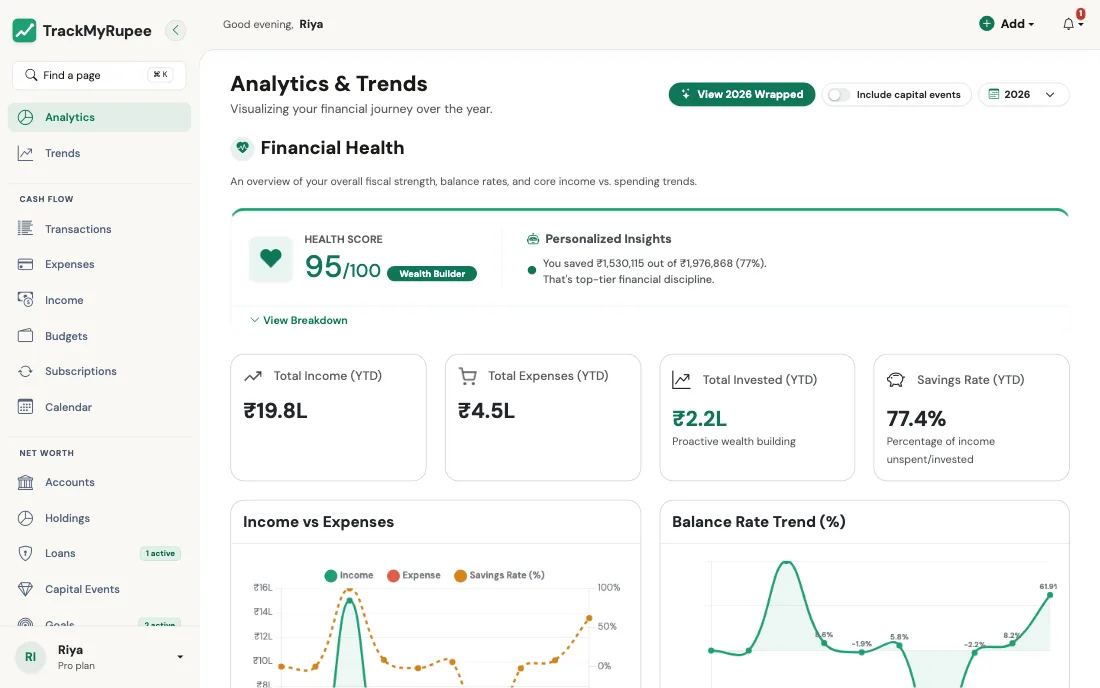
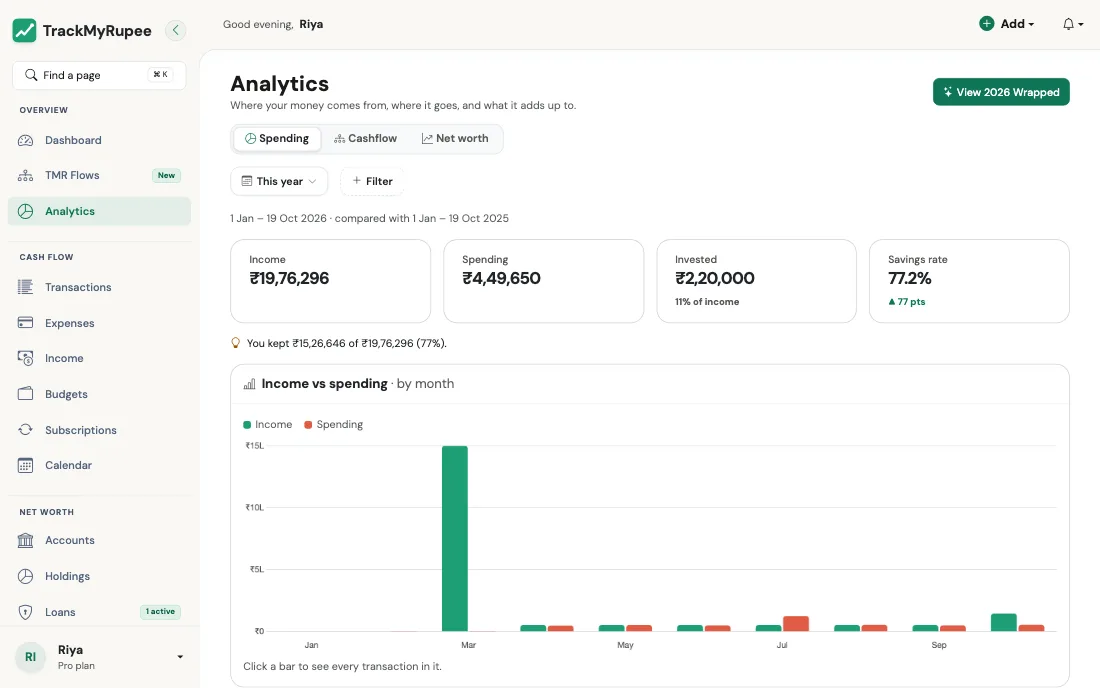
docs: regenerate Analytics guide screenshots; add Cashflow and Net worth shots

diff --git a/guide-src/11-analytics-and-health/index.hi.md b/guide-src/11-analytics-and-health/index.hi.md
@@ -51,6 +51,8 @@ Analytics में वही फ़िल्टर बार है जो Expe
 
 ## 3. Cashflow टैब
 
+![Cashflow](img/cashflow-desktop.webp){ loading=lazy }
+
 - **Where your money went**: एक प्रवाह आरेख। आपकी आय रोज़मर्रा के खर्च, ऋण के ब्याज, निवेश और नकद के रूप में बचाई राशि में बँटती है। रोज़मर्रा का खर्च आपकी सबसे बड़ी श्रेणियों में, और निवेश उन खातों में बँटता है जहाँ पैसा गया। यदि आपने कमाई से अधिक खर्च किया, तो अंतर **Paid from savings** के रूप में दिखता है। किसी ब्लॉक या प्रवाह पर क्लिक करके उसके लेन-देन देखें। नीचे एक छोटी सूची वही आंकड़े देती है, और कुछ सरल वाक्य बताते हैं कि क्या उभरकर आ रहा है।
 - **Health check**: एक स्कोर की जगह चार संख्याएँ, हर एक के साथ बताया गया कि वह क्या मापती है:
 
@@ -66,6 +68,8 @@ Analytics में वही फ़िल्टर बार है जो Expe
 ---
 
 ## 4. Net worth टैब
+
+![Net worth](img/net-worth-desktop.webp){ loading=lazy }
 
 - **Net worth**: अवधि के हर चरण के अंत में आपकी कुल संपत्ति, और अवधि में उसमें कितना बदलाव हुआ। हर बिंदु उस दिन के शेष दिखाता है (बाद के लेन-देन वापस घटाए जाते हैं), जमा पर ब्याज केवल उस दिन तक, होल्डिंग्स और संपत्ति उस दिन या उससे पहले के सबसे ताज़ा मूल्य पर, और ऋण उतने जितना तब बकाया था। किसी बिंदु पर क्लिक करके देखें कि वहाँ तक क्या बदला। चार्ट में अधिकतम 12 बिंदु बराबर दूरी पर दिखते हैं।
 - **What it's made of**: वही बिंदु खाते के प्रकार के अनुसार बँटे: नकद और बैंक, फिक्स्ड इनकम, निवेश, संपत्ति और बीमा, और ऋण व कार्ड पर जो बकाया है (रेखा के नीचे)। **Other** वह पैसा है जो लक्ष्यों के लिए अलग रखा गया है और वे ऋण जो किसी खाते से जुड़े नहीं हैं।

diff --git a/guide-src/11-analytics-and-health/index.md b/guide-src/11-analytics-and-health/index.md
@@ -53,6 +53,8 @@ Every tile, bar, row and block opens **All Transactions** for exactly the days a
 
 ## 3. The Cashflow Tab
 
+![Cashflow](img/cashflow-desktop.webp){ loading=lazy }
+
 - **Where your money went**: a flow diagram. Your income splits into living costs, loan interest, investing and what you kept as cash. Living costs split into your biggest categories, and investing into the accounts the money went to. If you spent more than you earned, the difference shows as **Spent more than earned**. Click a block or a flow to see its transactions. A short list underneath gives the same numbers, and a few plain sentences say what stands out.
 - **Health check**: four numbers instead of one score, each with what it measures:
 
@@ -68,6 +70,8 @@ Every tile, bar, row and block opens **All Transactions** for exactly the days a
 ---
 
 ## 4. The Net Worth Tab
+
+![Net worth](img/net-worth-desktop.webp){ loading=lazy }
 
 - **Net worth**: your net worth at the end of each step of the period, with how much it changed over the period. Each point is your balances as they stood that day (later transactions are taken back out), deposits accrued only up to then, holdings and property at their latest value on or before it, and loans at what was still owed. Click a point to see what changed up to it. The chart shows at most 12 points, evenly spaced.
 - **What it's made of**: the same points split by account type: cash and bank, fixed income, investments, property and insurance, and what you owe on loans and cards (shown below the line). **Other** is money set aside for goals and loans that are not tied to an account.
